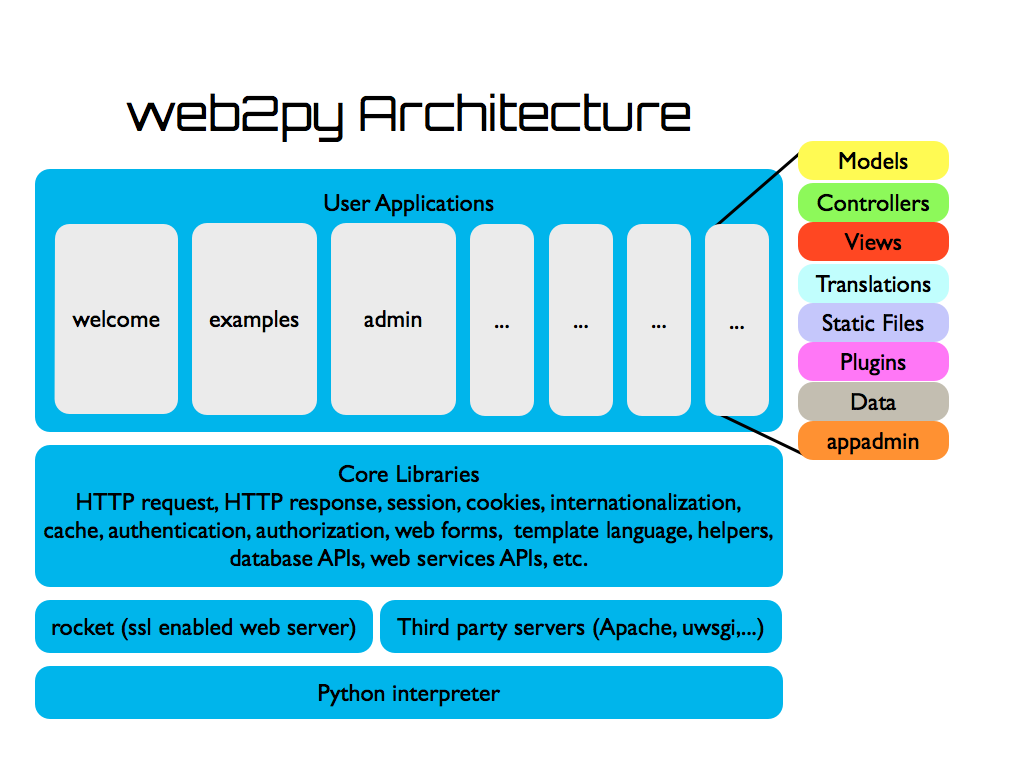
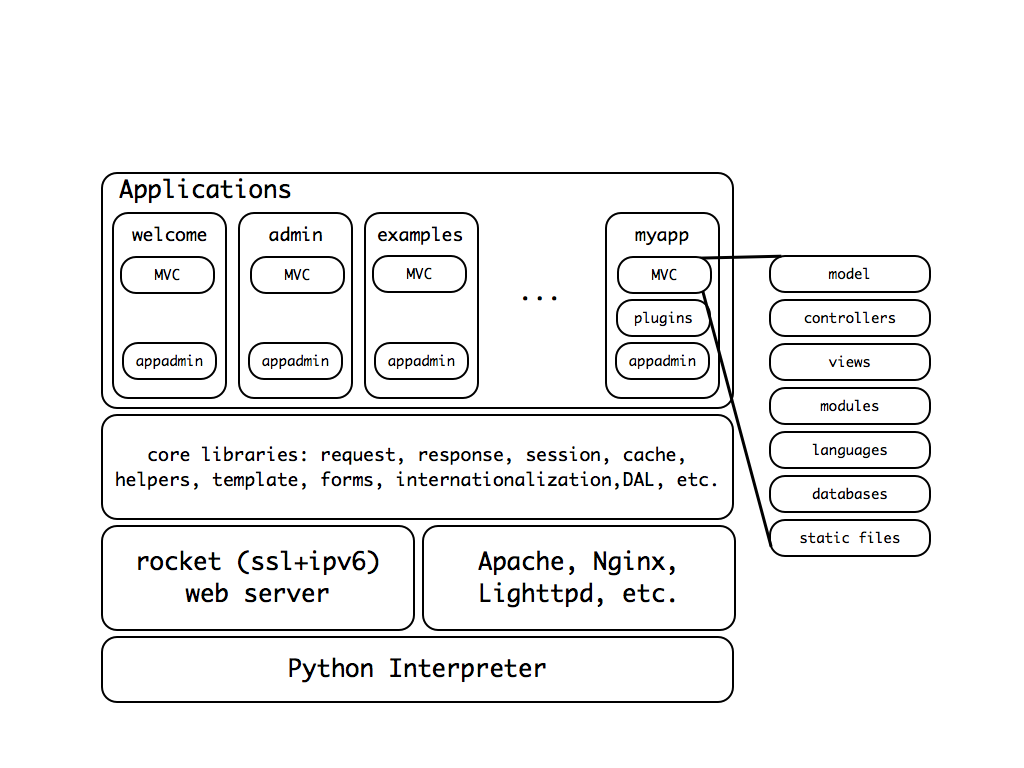
replaced some diagrams

diff --git a/private/convert_book.py b/private/convert_book.py
@@ -171,7 +171,7 @@ def assemble(path):
         reference = getreference(os.path.join(path,'references',item))
         bibliography.append((item,reference['source_url'])) 
     txtitems = '\n'.join('\\bibitem{%s} \\url{%s}' % item for item in bibliography)
-    body = body.place('\@/','@/')
+    body = body.replace('\@/','@/')
     return HEADER + body + FOOTER.replace('@BIBITEMS',txtitems)
 
 if __name__=='__main__':
